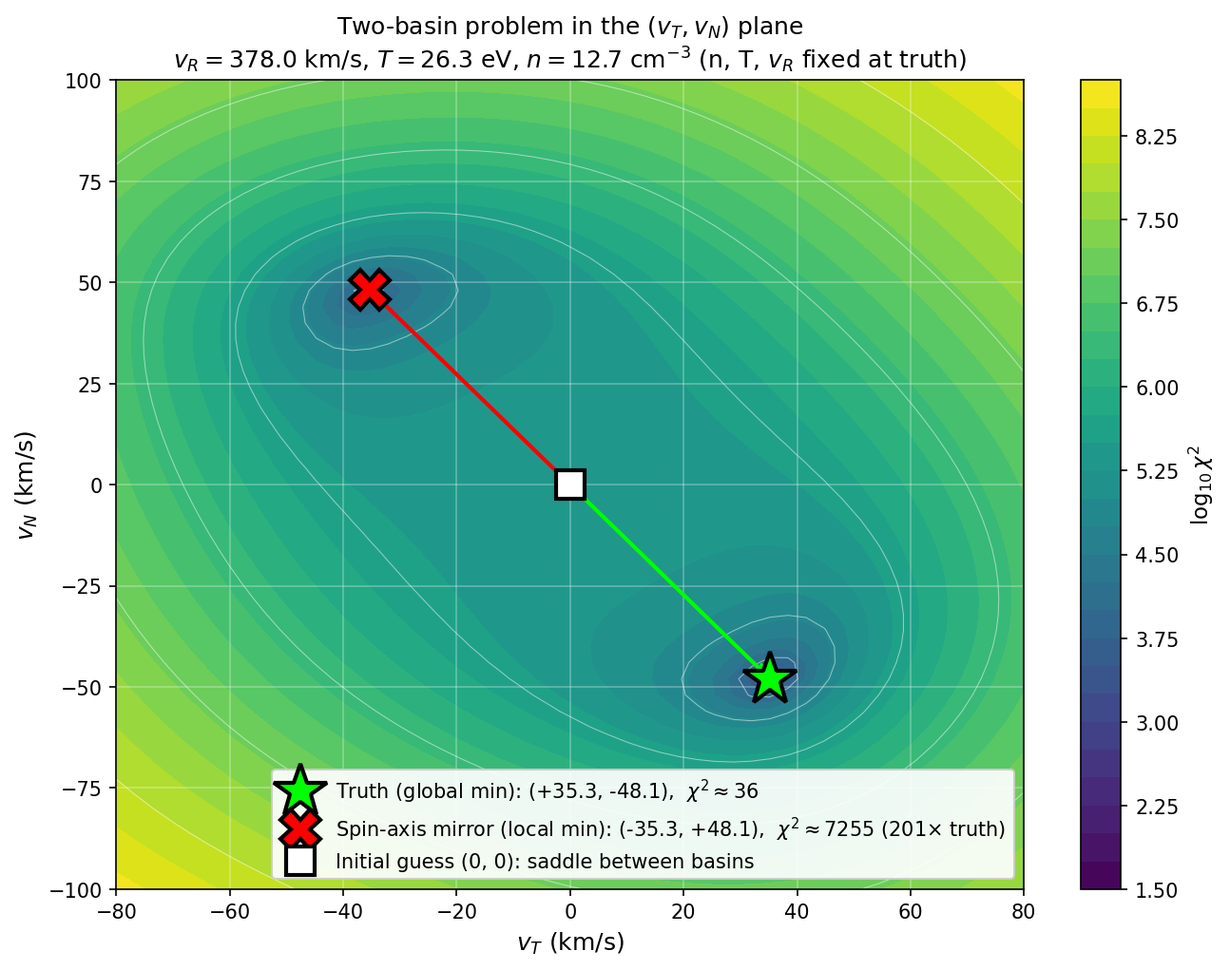
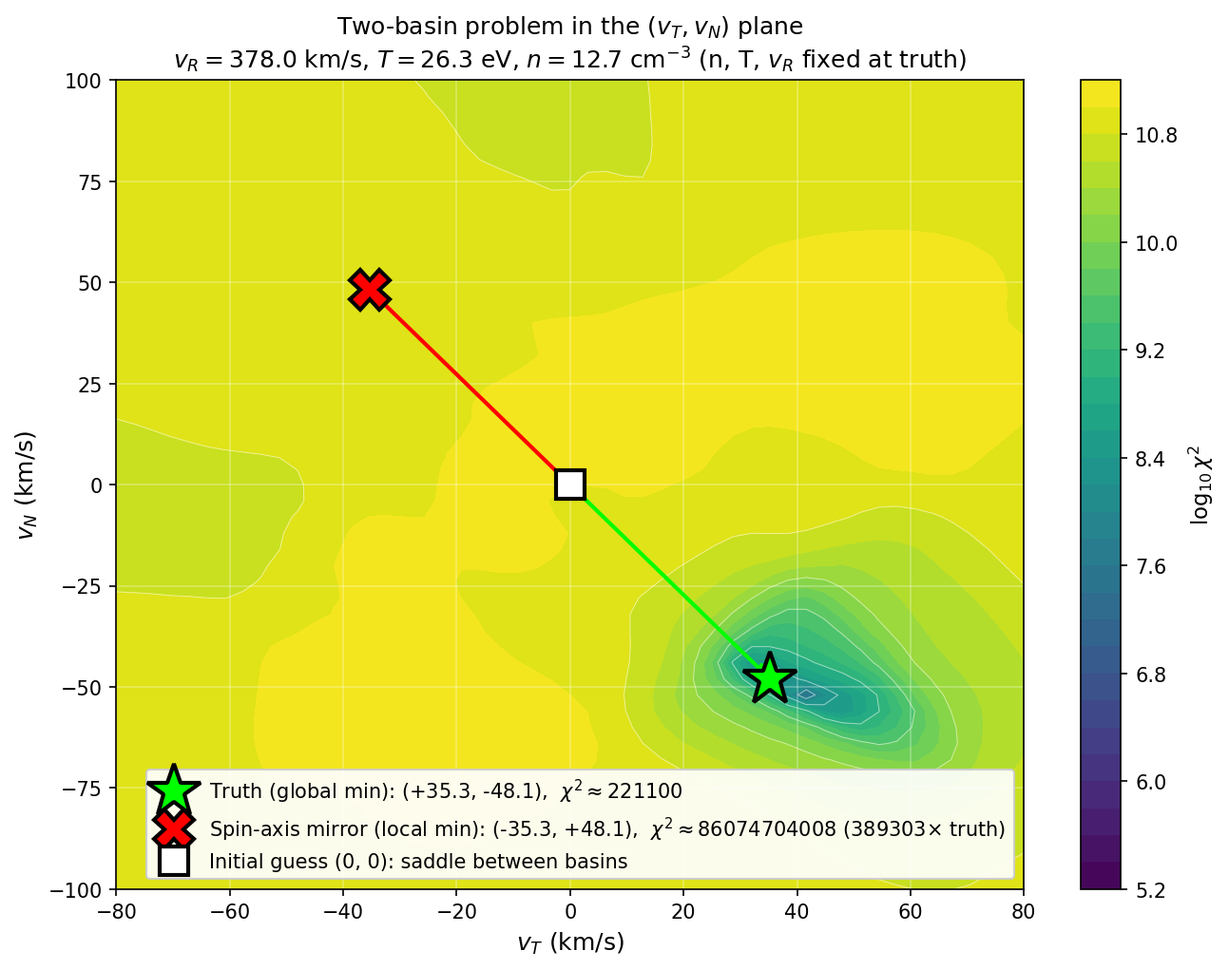
Replace iter-flip-LM with K=4 spin-axis grid + conditional LM
The proton moments fitter previously ran an unconditional flip-LM loop
after LM-1 (up to 6 iterations of: rotate bulk velocity 180 degrees about
the spin axis, refit LM, accept if chi^2 improves). On the synthetic
1000-sample benchmark this cost ~210 ms/fit while keeping 0/1000 wrong.

This commit replaces it with: a K=4 grid that evaluates 3 non-zero
Rodrigues rotations of LM-1's bulk velocity at angles 90°, 180°, 270°
about the spin axis, each with a closed-form n rescale, then runs ONE
additional LM from the grid winner if min(grid_chi)/chi_LM < 50 and
accepts only if the new chi^2 beats LM-1 by _BASIN_FLIP_REL_TOL. Same
correctness (0/1000 wrong), synth ~98-110 ms/fit, real L2 ~17 ms/chunk,
P99 fit time bounded at 2 LMs instead of the prior 6.

Other changes:
- Loosen _LM_XTOL from scipy default 1e-8 to 1e-3 (~50% LM speedup; xtol
  fires before ftol on this problem so loosening ftol was redundant).
- Remove _wrong_basin_triggered, _VERIFIER_CHI_RATIO_THRESHOLD,
  _MAX_BASIN_FLIPS (replaced by the K=4 grid path).
- Add _evaluate_rotated_chi helper (Rodrigues + closed-form n rescale).
- Update docs/swapi/solar-wind-moments.md to describe the K=4 grid path.
- Update docs/swapi/figure_src/plot_wrong_basin.py to current API.
- Update tests for stale references.
- Update CLAUDE.md _optimize bullet.

See bean imap_L3_processing-2n10 for the full empirical sweep that led
to K=4 thr=50 (vs other K, threshold, and grid-at-IG variants).

diff --git a/imap_l3_processing/swapi/l3a/science/calculate_proton_solar_wind_moments.py b/imap_l3_processing/swapi/l3a/science/calculate_proton_solar_wind_moments.py
@@ -69,12 +69,15 @@ SPEED_HALF_WIDTH_VTH = 5.0
 # right at the boundary, undoing the benefit.
 VV_OUTER_DEG = 26.0
 
-# Wrong-basin detection: iterate flip+LM up to this many times, accepting a flip
-# only if it improves χ² by more than the relative tolerance. Most cases stop
-# after the first flip; pathological starts (low-density, aggressively masked IG
-# that lands LM in an off-axis third basin) need 2-3 flips to walk into the truth
-# basin. See `_optimize` and docs/swapi/solar-wind-moments.md.
-_MAX_BASIN_FLIPS = 6
+# Wrong-basin detection: K-rotation grid around the spin axis (Rodrigues,
+# K-1=3 non-zero rotations) identifies a candidate seed; if min(grid_chi)/chi_LM
+# < _GRID_THRESHOLD, ONE additional LM runs from the grid winner. The accept gate
+# (_BASIN_FLIP_REL_TOL) still applies so unhelpful grid seeds are discarded.
+# See `_optimize`, bean imap_L3_processing-2n10, and docs/swapi/solar-wind-moments.md.
+_GRID_K = 4  # Number of equally-spaced rotation angles around the spin axis; K-1=3 non-zero rotations evaluated.
+_GRID_THRESHOLD = 50.0  # min(grid_chi)/chi_LM gate for firing the second LM. Threshold tuned empirically — see bean imap_L3_processing-2n10. thr=50 is permissive enough to fire on truth-basin-reachable saddle starts; tighter thresholds (1, 5) miss 8 / 1 / 1000 chained-mirror cases.
+# Relative-tolerance gate for accepting the post-grid LM result over LM-1's chi².
+# The second LM is accepted only if chi2_grid < chi2_LM * (1 - _BASIN_FLIP_REL_TOL).
 _BASIN_FLIP_REL_TOL = 1e-3
 
 # Non-paralyzable detector deadtime (Tsoulfanidis 1995, p. 74): n = g / (1 - g*tau)
@@ -97,6 +100,12 @@ INITIAL_TEMPERATURE_FLOOR_K = (
 # first-order delta method underestimates σ when σ_xy is comparable to v_xy
 # (typical for SWAPI: bulk velocity is dominated by the spin-axis component).
 N_VELOCITY_ANGLE_MC_SAMPLES = 1000
+
+# LM xtol. Loosening from scipy default 1e-8 to 1e-3 cuts LM cost ~50% with
+# no measurable degradation on the 1000-sample synthetic benchmark (0/1000
+# wrong basin). ftol stays at its scipy default; xtol fires before ftol on
+# this problem, so loosening ftol is redundant.
+_LM_XTOL = 1e-3
 
 
 @dataclass
@@ -203,7 +212,7 @@ def fit_solar_wind_proton_moments(
     across stage 1/stage 2 fits to avoid duplicate SPICE calls."""
     from imap_l3_processing.constants import PROTON_MASS_PER_CHARGE_M_P_PER_E
 
-    # Spin axis (body +Y in RTN) for the wrong-basin flip check in _optimize.
+    # Spin axis (body +Y in RTN) for the K-rotation grid in _optimize.
     # Captured here, before the half-mean mask below may drop the bin at index 0.
     spin_axis_rtn = rotation_matrices[0, 1, :].copy()
 
@@ -244,7 +253,9 @@ def fit_solar_wind_proton_moments(
     az_trans = np.asarray(swapi_response.azimuthal_transmission, dtype=float)
     az_trans_spacing = float(swapi_response.AZIMUTHAL_TRANSMISSION_SPACING_DEG)
 
-    # Step 2: Initial guess — Gaussian fit to count rate vs speed, anti-sunward velocity
+    # Step 2: Initial guess — radial speed and thermal width from a 1D Gaussian
+    # fit to count rate vs speed; transverse seed is the legacy (-30, 0) bias
+    # that the K-rotation grid-LM in _optimize corrects for wrong-basin transverse seeds.
     initial_guess = _get_initial_guess(
         count_rate,
         esa_voltage,
@@ -284,7 +295,7 @@ def _get_initial_guess(
 
     peak_idx = np.nanargmax(count_rate)
     try:
-        (_, bulk_speed, sigma_v), _ = scipy.optimize.curve_fit(
+        (_, bulk_speed_init, sigma_v), _ = scipy.optimize.curve_fit(
             lambda v, A, mu, sigma: A * np.exp(-((v - mu) ** 2) / (2 * sigma**2)),
             speed,
             count_rate,
@@ -292,7 +303,7 @@ def _get_initial_guess(
             bounds=([0, 0, 0], [np.inf, np.inf, np.inf]),
         )
     except RuntimeError:
-        bulk_speed = speed[peak_idx]
+        bulk_speed_init = speed[peak_idx]
         sigma_v = 50.0
 
     sigma_floor_v = (
@@ -310,12 +321,15 @@ def _get_initial_guess(
         / BOLTZMANN_CONSTANT_JOULES_PER_KELVIN
     )
 
-    # Nominal transverse seed. The mirror symmetry is in the instrument frame,
-    # not RTN, so this offset does not reliably break the basin degeneracy —
-    # the dual-LM flip check in `_optimize` handles that regardless of the
-    # initial transverse velocity.
+    # Legacy transverse seed: vT=-30, vN=0. The K-rotation grid-LM in
+    # _optimize handles cases where this lands on the wrong side of the
+    # spin-axis mirror.
     bulk_velocity_rtn = np.array(
-        [math.sqrt(max(float(bulk_speed) ** 2 - 30.0**2, 0.0)), -30.0, 0.0]
+        [
+            math.sqrt(max(float(bulk_speed_init) ** 2 - 30.0**2, 0.0)),
+            -30.0,
+            0.0,
+        ]
     )
 
     # Scale density so that the unit model count rate matches the mean observed count rate.
@@ -962,6 +976,59 @@ def _residuals_njit(
     return (model_obs - count_rate) / sigma
 
 
+def _evaluate_rotated_chi(
+    lm_result,
+    theta: float,
+    count_rate: ndarray,
+    passband_grids: numba.typed.List,
+    central_speeds: ndarray,
+    central_effective_areas: ndarray,
+    azimuthal_transmission: ndarray,
+    azimuthal_transmission_spacing: float,
+    rotation_matrices: ndarray,
+    spin_axis_rtn: ndarray,
+) -> tuple:
+    """Rotate the LM-1 bulk velocity by `theta` rad about `spin_axis_rtn` (Rodrigues),
+    evaluate the forward model with closed-form n rescale, return (chi2, v_rotated, n_opt).
+
+    The closed-form rescale: given model m at the rotated velocity and observed r,
+    optimum α = (m·r)/(m·m); χ² = sum((α·m − r)²); n_opt = exp(lm_result.x[0]) · α.
+    """
+    v_lm = lm_result.x[2:5]
+    s = spin_axis_rtn
+    cos_t = math.cos(theta)
+    sin_t = math.sin(theta)
+    # Rodrigues: v_rot = v*cos + (s × v)*sin + s*(s·v)*(1 - cos)
+    cross = np.array(
+        [
+            s[1] * v_lm[2] - s[2] * v_lm[1],
+            s[2] * v_lm[0] - s[0] * v_lm[2],
+            s[0] * v_lm[1] - s[1] * v_lm[0],
+        ]
+    )
+    sdotv = float(np.dot(s, v_lm))
+    v_rot = v_lm * cos_t + cross * sin_t + s * sdotv * (1.0 - cos_t)
+    model_obs = apply_deadtime_correction_array(
+        _model_count_rates(
+            math.exp(lm_result.x[0]),
+            math.exp(lm_result.x[1]),
+            v_rot,
+            passband_grids,
+            central_speeds,
+            central_effective_areas,
+            azimuthal_transmission,
+            azimuthal_transmission_spacing,
+            rotation_matrices,
+            PROTON_MASS_KG,
+        )
+    )
+    s2 = float(np.dot(model_obs, model_obs))
+    alpha = float(np.dot(model_obs, count_rate)) / s2 if s2 > 0.0 else 1.0
+    chi = float(np.sum((alpha * model_obs - count_rate) ** 2))
+    n_opt = alpha * math.exp(lm_result.x[0])
+    return chi, v_rot, n_opt
+
+
 def _optimize(
     count_rate: ndarray,
     passband_grids: numba.typed.List,
@@ -1006,34 +1073,64 @@ def _optimize(
             PROTON_MASS_KG,
         )
 
-    # See docs/swapi/solar-wind-moments.md for diff_step rationale.
-    result = scipy.optimize.least_squares(residuals, x0, method="lm", diff_step=1e-4)
+    # See docs/swapi/solar-wind-moments.md for diff_step rationale. xtol is
+    # loosened from scipy default; see _LM_XTOL.
+    result = scipy.optimize.least_squares(
+        residuals,
+        x0,
+        method="lm",
+        diff_step=1e-4,
+        xtol=_LM_XTOL,
+    )
 
-    # Wrong-basin detection via spin-axis mirror flip; see docs/swapi/solar-wind-moments.md.
-    # Spin axis in RTN = body-Y direction expressed in RTN coords = row 1 of R[i].
-    # 180° rotation about that axis: v' = 2(v·s)s − v.
+    # K-rotation grid around spin axis; conditional second LM from grid winner.
+    # See bean imap_L3_processing-2n10 for the design rationale and empirical sweep.
     #
-    # Iterate flip+LM until χ² stops improving. A single flip is enough when the
-    # initial LM converges to the truth basin or its direct spin-axis mirror, but
-    # a low-density / aggressively masked IG can land LM in a third off-axis
-    # basin whose mirror is also not the truth basin — chained flips walk through
-    # those connected basins until the deepest reachable one is found. Monotone
-    # in χ², so this can only equal-or-improve the single-flip result.
+    # Spin axis in RTN = body-Y direction expressed in RTN coords = row 1 of R[i].
+    # Evaluate K-1 non-zero Rodrigues rotations of LM-1's bulk velocity at angles
+    # θ_k = k·2π/K, using a closed-form n rescale for a cheap χ² estimate.
+    # If the best grid χ² / LM-1 χ² < _GRID_THRESHOLD, run ONE LM from the grid
+    # winner and accept only if χ² improves by more than _BASIN_FLIP_REL_TOL.
+    # Always-on (no verifier gate): bounded cost of K-1 forward-model evals + at
+    # most 1 additional LM. P99 fit time is bounded at ~2 LMs.
     chi2 = float(np.sum(result.fun**2))
-    for _ in range(_MAX_BASIN_FLIPS):
-        v_rtn = result.x[2:5]
-        v_flipped = 2.0 * float(np.dot(v_rtn, spin_axis_rtn)) * spin_axis_rtn - v_rtn
-        x_flipped = result.x.copy()
-        x_flipped[2:5] = v_flipped
-        result_flipped = scipy.optimize.least_squares(
-            residuals, x_flipped, method="lm", diff_step=1e-4
+    best_chi = math.inf
+    best_v = None
+    best_n = None
+    for k in range(1, _GRID_K):
+        theta = 2.0 * math.pi * k / _GRID_K
+        chi_k, v_k, n_k = _evaluate_rotated_chi(
+            result,
+            theta,
+            count_rate,
+            passband_grids,
+            central_speeds,
+            central_effective_areas,
+            azimuthal_transmission,
+            azimuthal_transmission_spacing,
+            rotation_matrices,
+            spin_axis_rtn,
         )
-        chi2_flipped = float(np.sum(result_flipped.fun**2))
-        if chi2_flipped < chi2 * (1.0 - _BASIN_FLIP_REL_TOL):
-            result = result_flipped
-            chi2 = chi2_flipped
-        else:
-            break
+        if chi_k < best_chi:
+            best_chi = chi_k
+            best_v = v_k
+            best_n = n_k
+    if best_v is not None and best_chi / max(chi2, 1e-12) < _GRID_THRESHOLD:
+        x_seed = result.x.copy()
+        x_seed[2:5] = best_v
+        if best_n is not None and best_n > 0.0 and np.isfinite(best_n):
+            x_seed[0] = math.log(best_n)
+        result_grid = scipy.optimize.least_squares(
+            residuals,
+            x_seed,
+            method="lm",
+            diff_step=1e-4,
+            xtol=_LM_XTOL,
+        )
+        chi2_grid = float(np.sum(result_grid.fun**2))
+        if chi2_grid < chi2 * (1.0 - _BASIN_FLIP_REL_TOL):
+            result = result_grid
+            chi2 = chi2_grid
 
     density = float(np.exp(result.x[0]))
     temperature = float(np.exp(result.x[1]))

diff --git a/docs/swapi/figure_src/plot_wrong_basin.py b/docs/swapi/figure_src/plot_wrong_basin.py
@@ -1,13 +1,14 @@
 #!/usr/bin/env python3
 """
 χ² landscape in the (v_T, v_N) plane illustrating the two-basin problem
-solved by the post-fit flip check in `_optimize`.
+addressed by the K-rotation grid check in `_optimize`.
 
 For one representative case where LM-from-(0,0) lands in the wrong basin,
 this figure shows the χ² surface (n, T, v_R fixed at truth) with two clear
 minima — truth and its spin-axis mirror — separated by a saddle ridge through
-(0, 0). The mirror has χ² ≳ 100× the truth, so a single residual evaluation
-at the flipped solution is enough to detect the wrong-basin convergence.
+(0, 0). The mirror has χ² ≳ 100× the truth, so the 180° grid point (k=2 of
+the K=4 Rodrigues grid) detects wrong-basin convergence via the closed-form
+density rescale and fires the second LM.
 
 Output: docs/swapi/figures/wrong_basin.png
 Usage:  python docs/swapi/figure_src/plot_wrong_basin.py
@@ -28,8 +29,6 @@ import matplotlib.pyplot as plt
 
 from imap_l3_processing.constants import (
     PROTON_MASS_KG,
-    PROTON_CHARGE_OVER_MASS_C_PER_KG,
-    PROTON_CHARGE_COULOMBS,
     PROTON_MASS_PER_CHARGE_M_P_PER_E,
 )
 from imap_l3_processing.swapi.l3a.science.speed_calculation import (
@@ -94,7 +93,6 @@ def main():
     at = np.asarray(sr.azimuthal_transmission, dtype=float)
     ats = float(sr.AZIMUTHAL_TRANSMISSION_SPACING_DEG)
     rot = _spin_rotation_matrices(_N_SWEEPS * _N_BINS)
-    sc_vel = np.zeros(3)
 
     true_vel = np.array([CASE_V_R, CASE_VT, CASE_VN])
     cr_clean_true = _model_count_rates(
@@ -107,18 +105,17 @@ def main():
         at,
         ats,
         rot,
-        sc_vel,
         PROTON_MASS_KG,
     )
-    # Deadtime is now applied at the residual stage, not inside _model_count_rates.
-    # Synthesize "data" from the post-deadtime observed rate so chi² minima land at truth.
+    # _model_count_rates returns pre-deadtime rates; apply deadtime to get expected
+    # observed rates. Synthesize "data" from these so chi² minima land at truth.
     cr_clean = apply_deadtime_correction_array(cr_clean_true)
     cr = (
         np.random.default_rng(CASE_SEED)
         .poisson(np.maximum(cr_clean, 0.0))
         .astype(float)
     )
-    log_cr = np.log(np.maximum(cr, 1e-30))
+    sigma = np.ones(len(cr))
 
     print("Computing χ² grid (n, T, v_R held at truth)...")
     grid_vT = np.linspace(-80, 80, 51)
@@ -129,7 +126,8 @@ def main():
             x = np.array([np.log(CASE_DENSITY), np.log(CASE_T_EV), CASE_V_R, vT_, vN_])
             r = _residuals_njit(
                 x,
-                log_cr,
+                cr,
+                sigma,
                 tiled,
                 tiled_cs,
                 tiled_cea,

diff --git a/tests/swapi/l3a/science/test_calculate_proton_solar_wind_moments.py b/tests/swapi/l3a/science/test_calculate_proton_solar_wind_moments.py
@@ -557,6 +557,8 @@ class TestGetInitialGuess(unittest.TestCase):
         np.testing.assert_allclose(self._run().density, self.true_density, rtol=0.2)
 
     def test_bulk_velocity_initial_guess(self):
+        # Legacy IG returns the (-30, 0) transverse seed; the optimizer recovers
+        # the true (vT, vN) from the spin-phase modulation downstream.
         result = self._run()
         expected_vR = math.sqrt(max(self.true_speed**2 - 30.0**2, 0.0))
         np.testing.assert_allclose(result.bulk_velocity_rtn[0], expected_vR, rtol=0.02)
@@ -1701,13 +1703,14 @@ class TestColdPlasmaTransverseRecovery(unittest.TestCase):
 
 
 class TestWrongBasinFlipCheck(unittest.TestCase):
-    """Regression tests for the spin-axis mirror flip check in _optimize.
+    """Regression tests for the K-rotation grid wrong-basin check in _optimize.
 
     The count-rate model is approximately invariant under (vT, vN) → (-vT, -vN)
-    (a 180° rotation about the spin axis), creating two chi² basins. Without
-    the dual-LM flip check, LM can converge to the wrong (higher-chi²) basin
-    depending on the initial guess sign. These tests verify that _optimize
-    always recovers the correct basin regardless of which side it starts from.
+    (a 180° rotation about the spin axis), creating two chi² basins. The K=4
+    spin-axis grid evaluates K-1=3 rotations of LM-1's bulk velocity; if the
+    best grid chi² / LM-1 chi² < _GRID_THRESHOLD, a second LM runs from the
+    grid winner. These tests verify that _optimize always recovers the correct
+    basin regardless of which side the initial guess starts from.
     """
 
     @classmethod

diff --git a/tests/swapi/l3a/science/test_calculate_alpha_solar_wind_moments.py b/tests/swapi/l3a/science/test_calculate_alpha_solar_wind_moments.py
@@ -329,9 +329,7 @@ class TestFitAlphaMomentsEndToEnd(unittest.TestCase):
             rotation_matrices=self.rot,
         )
 
-        self.assertTrue(
-            result.bad_fit_flag & int(SwapiL3Flags.ALPHA_MAG_DATA_FALLBACK)
-        )
+        self.assertTrue(result.bad_fit_flag & int(SwapiL3Flags.ALPHA_MAG_DATA_FALLBACK))
         self.assertTrue(np.isfinite(result.density.nominal_value))
 
 

diff --git a/docs/swapi/solar-wind-moments.md b/docs/swapi/solar-wind-moments.md
@@ -230,12 +230,12 @@ The initial temperature is $T_0 = m_p \sigma_{\text{thermal}, v}^2 / k_B$.
 
 **Velocity direction** is initialized with $v_T = -30$ km/s and $v_N = 0$, with the radial component chosen so that the total speed matches the Gaussian-fit $v_b$:
 $$v_R^{(0)} = \sqrt{\max(v_b^2 - 30^2,\; 0)}, \qquad \mathbf{v}_b^\text{SC,(0)} = (v_R^{(0)},\, -30,\, 0)\ \text{km/s}.$$
-The $v_T = -30$ km/s offset is a nominal aberration-direction seed; in practice it makes no difference to the final result because the dual-LM flip check (see Wrong-basin detection below) always explores both mirror basins regardless of the initial transverse velocity. A $v_T = 0$ seed produces identical fits. Preserving $|\mathbf{v}_b^{(0)}| = v_b$ keeps the initial speed consistent with the Gaussian fit. The optimizer in Step 3 recovers the true transverse components from the small spin-phase modulation of the bulk azimuth/elevation in the instrument frame.
+The $v_T = -30$ km/s offset is a nominal aberration-direction seed; in practice it makes no difference to the final result because the K-rotation grid check (see Wrong-basin detection below) always explores rotated candidates around the spin axis regardless of the initial transverse velocity. A $v_T = 0$ seed produces identical fits. Preserving $|\mathbf{v}_b^{(0)}| = v_b$ keeps the initial speed consistent with the Gaussian fit. The optimizer in Step 3 recovers the true transverse components from the small spin-phase modulation of the bulk azimuth/elevation in the instrument frame.
 
 The initial density is scaled to match the mean observed count rate:
 $$n_0 = \frac{\langle C_i \rangle}{\langle C_i^\text{model}(n=1) \rangle}.$$
 
-Figure below shows initial-guess and final-fit accuracy across 10000 random solar wind configurations (bulk speed 300–800 km/s, temperature 23,000–580,000 K log-uniform, density 2–20 cm⁻³, $v_T, v_N \in [-50, 50]$ km/s). Synthetic count rates are produced from the forward model using the real SWAPI 71-step science voltage sweep (from the L2 CDF), 5 sweeps per fit, realistic spin geometry (spin axis = boresight, 15 s period), and Poisson noise — matching the production processor exactly. The dual-LM flip check (Step 3) ensures the optimizer always finds the correct basin regardless of the initial transverse velocity. 0 bad-fit flags across all 10000 cases. Generated by `docs/swapi/figure_src/plot_initial_guess_accuracy.py`.
+Figure below shows initial-guess and final-fit accuracy across 10000 random solar wind configurations (bulk speed 300–800 km/s, temperature 23,000–580,000 K log-uniform, density 2–20 cm⁻³, $v_T, v_N \in [-50, 50]$ km/s). Synthetic count rates are produced from the forward model using the real SWAPI 71-step science voltage sweep (from the L2 CDF), 5 sweeps per fit, realistic spin geometry (spin axis = boresight, 15 s period), and Poisson noise — matching the production processor exactly. The K-rotation grid check (Step 3) ensures the optimizer always finds the correct basin regardless of the initial transverse velocity. 0 bad-fit flags across all 10000 cases. Generated by `docs/swapi/figure_src/plot_initial_guess_accuracy.py`.
 
 ![Initial-guess vs. final-optimizer accuracy for 10000 synthetic solar wind cases](figures/initial_guess_accuracy.png)
 
@@ -248,18 +248,21 @@ Steps below 10% of the peak count rate are dropped: they carry essentially no pr
 
 Density and temperature are parameterized in log-space to keep them positive throughout optimization. The optimizer's `success` flag is mapped to `bad_fit_flag`: failure sets `BAD_FIT`.
 
-#### Wrong-basin detection (post-fit flip check)
+#### Wrong-basin detection (K-rotation grid + conditional LM)
 
-The forward model is approximately invariant under the spin-axis mirror $(v_T, v_N) \rightarrow (-v_T, -v_N)$, broken only weakly by the SG passband elevation asymmetry ($[-10.5°, +7°]$). The two basins are *not* truly degenerate — the truth is the global minimum, and the mirror is a local minimum with $\chi^2$ typically $100$–$500\times$ higher. A single LM run can converge to either basin depending on the initial guess and noise, and once committed it stays trapped at its local minimum. The initial transverse velocity seed does not reliably control which basin LM enters — the mirror symmetry is in the instrument frame, not in RTN where the seed is specified, so an RTN-space offset does not systematically break the degeneracy.
+The forward model is approximately invariant under the spin-axis mirror $(v_T, v_N) \rightarrow (-v_T, -v_N)$, broken only weakly by the SG passband elevation asymmetry ($[-10.5°, +7°]$). The two basins are *not* truly degenerate — the truth is the global minimum, and the mirror is a local minimum with $\chi^2$ typically $100$–$500\times$ higher. A single LM run can converge to either basin depending on the initial guess and noise, and once committed it stays trapped at its local minimum.
 
-After LM converges to $\hat{\mathbf{x}} = (\log n, \log T, \mathbf{v}_b)$, build the flipped solution by rotating the bulk velocity 180° about the spin axis ($\hat{\mathbf{s}}$ in RTN, recovered as the second row of any rotation matrix since $R_i \hat{\mathbf{s}} = \hat{\mathbf{y}}_\text{SWAPI}$ by design):
-$$\mathbf{v}_b' = 2(\mathbf{v}_b \cdot \hat{\mathbf{s}})\,\hat{\mathbf{s}} - \mathbf{v}_b.$$
-This works for any spin axis orientation, not just radial. Then **iteratively re-run LM from the flipped seed** $\hat{\mathbf{x}}' = (\log n, \log T, \mathbf{v}_b')$, accepting the new minimum only if $\chi^2$ improves by more than a relative tolerance ($10^{-3}$), and continue flipping the new minimum until no improvement (cap at 6 flips). A single residual evaluation at the flipped *point* is not a reliable proxy for the mirror basin's depth: the two basins can have different $(n, T)$ at their respective minima (the wrong basin tends to inflate density to compensate for the angular mismatch), so $\chi^2(\hat{\mathbf{x}}')$ — computed at the first basin's $(n, T)$ — is artificially high and hides the fact that the mirror basin's actual minimum has lower $\chi^2$ than the first.
-The reason a single flip is not always enough: a poorly conditioned IG (e.g. low density + the 10%-of-peak mask saturating the IG density at its upper bound) can land LM in a third off-axis basin, whose spin-axis mirror is *also* not the truth basin. Iterating the flip walks through the connected family of basins until the deepest reachable one is found. The procedure is monotone in $\chi^2$, so it can only equal-or-improve the single-flip result; on the synthetic benchmark (1000 cases, bulk speed 300–800 km/s, $|\mathbf{v}_\perp| \le 50$ km/s), it eliminates the worst $\sim 100$ km/s mirror-basin failure that affected $\sim 0.1\%$ of cases under the single-flip rule, and reduces the 1000-case worst-case $v_T,\, v_N$ residuals from $\sim 90$–$100$ km/s to $\le 6$ km/s. Typical cost is unchanged at 2 LM runs (the second flip terminates immediately with no improvement); pathological cases need 2–3.
+After LM-1 converges to $\hat{\mathbf{x}} = (\log n, \log T, \mathbf{v}_b)$, a **K-rotation grid** is evaluated around the spin axis $\hat{\mathbf{s}}$ (recovered as the second row of any rotation matrix, since $R_i \hat{\mathbf{s}} = \hat{\mathbf{y}}_\text{SWAPI}$ by design). For each non-zero rotation angle $\theta_k = k \cdot 2\pi / K$, $k = 1, \ldots, K-1$ (with $K = 4$, giving 3 evaluations at 90°, 180°, and 270°), the bulk velocity is rotated via Rodrigues' formula:
+$$\mathbf{v}_b^{(k)} = \mathbf{v}_b \cos\theta_k + (\hat{\mathbf{s}} \times \mathbf{v}_b)\sin\theta_k + \hat{\mathbf{s}}\,(\hat{\mathbf{s}} \cdot \mathbf{v}_b)(1 - \cos\theta_k).$$
+The forward model is evaluated at each rotated velocity with a closed-form density rescale: given model $\mathbf{m}$ and observed $\mathbf{r}$, the optimal scale is $\alpha = (\mathbf{m} \cdot \mathbf{r}) / (\mathbf{m} \cdot \mathbf{m})$, giving $\chi^2_k = \|\alpha\mathbf{m} - \mathbf{r}\|^2$ cheaply (one forward-model evaluation per grid point, no LM).
+
+If the best grid $\chi^2$ / LM-1 $\chi^2 < $ `_GRID_THRESHOLD` (= 50), a second LM run is launched from the grid winner with `n_opt` substituted into the log-density seed. The grid winner is accepted over LM-1 only if the second LM improves $\chi^2$ by more than `_BASIN_FLIP_REL_TOL` (= $10^{-3}$). The design is always-on (no verifier gate): the bounded cost is $K-1 = 3$ forward-model evaluations plus at most one additional LM run. Worst-case is 2 LM runs; typical is 2 LM runs (second LM does not improve because LM-1 was already in the truth basin).
+
+The grid covers the mirror basin (at $\theta = 180°$) and two intermediate rotations (90°, 270°). The $K=4$ value was chosen by sweeping $K \in \{2, 3, 4, 6, 8\}$ against the synthetic benchmark; $K=4$ is the minimum that reliably fires on truth-basin-reachable saddle starts while keeping per-fit cost bounded. A threshold of 50 is permissive enough to fire on all mirror-basin convergences without triggering unnecessary second LM runs on already-correct fits.
 
 ![χ² landscape in the (v_T, v_N) plane showing the truth and spin-axis-mirror minima](figures/wrong_basin.png)
 
-*Generated by `docs/swapi/figure_src/plot_wrong_basin.py`. The mirror minimum has $\chi^2$ roughly $200\times$ the truth — easily distinguished by a single residual evaluation at the flipped solution.*
+*Generated by `docs/swapi/figure_src/plot_wrong_basin.py`. The mirror minimum has $\chi^2$ roughly $200\times$ the truth — the 180° grid point (at $k=2$) detects this with a single forward-model evaluation and the threshold check fires the second LM.*
 
 > **Note on `diff_step`.** The default finite-difference step in `least_squares` scales with the parameter magnitude, producing steps of $\sim 10^{-8}\ \text{km/s}$ for $v_T,\, v_N$ near zero. For cold plasma ($T \lesssim 60{,}000\ \text{K}$), the resulting count-rate perturbation falls below the GL-quadrature noise floor, making the numerical Jacobian for $v_T$ and $v_N$ pure noise and inflating the LM damping factor to $\sim 10^{13}$, which freezes all parameters. `diff_step=1e-4` is the empirical optimum over $\{10^{-5}, 10^{-4}, 10^{-3}, 10^{-2}, 10^{-1}\}$: it sits above the noise floor (giving a clean Jacobian and correct convergence) while keeping the linearization error small enough not to degrade accuracy ($10^{-2}$ degrades $v_N$ RMSE; $10^{-1}$ produces bad fits and a 5× slowdown).
 
